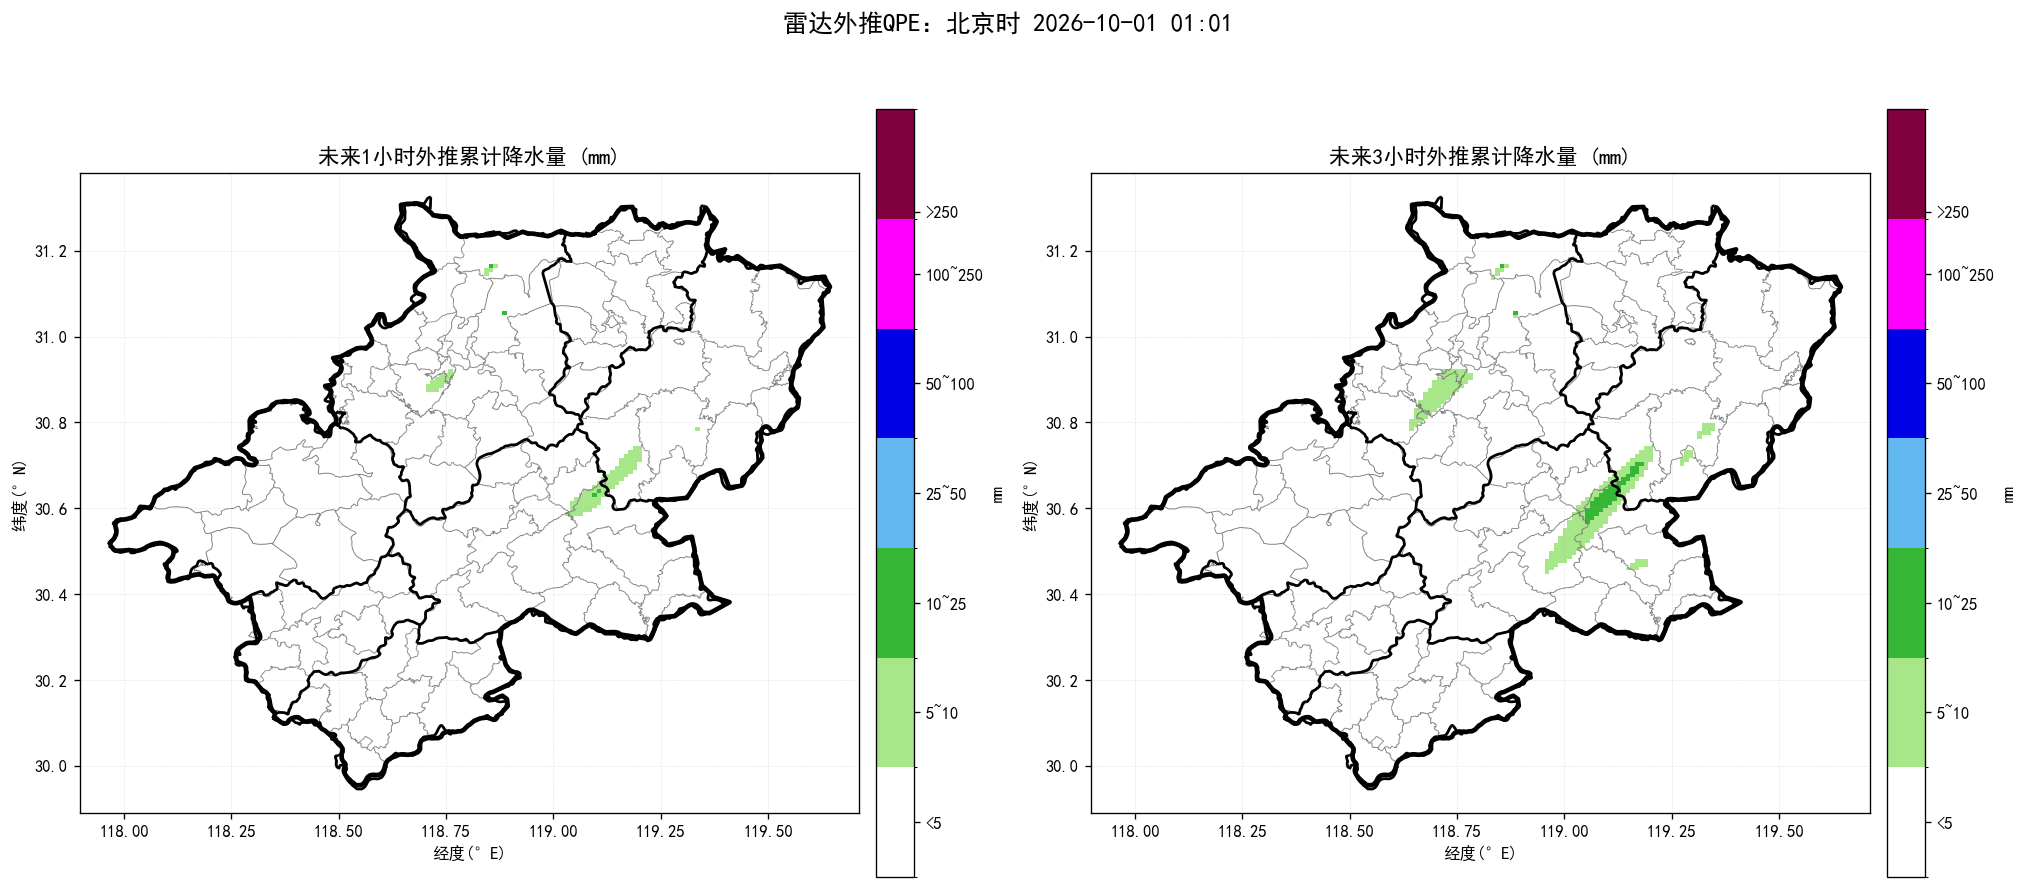
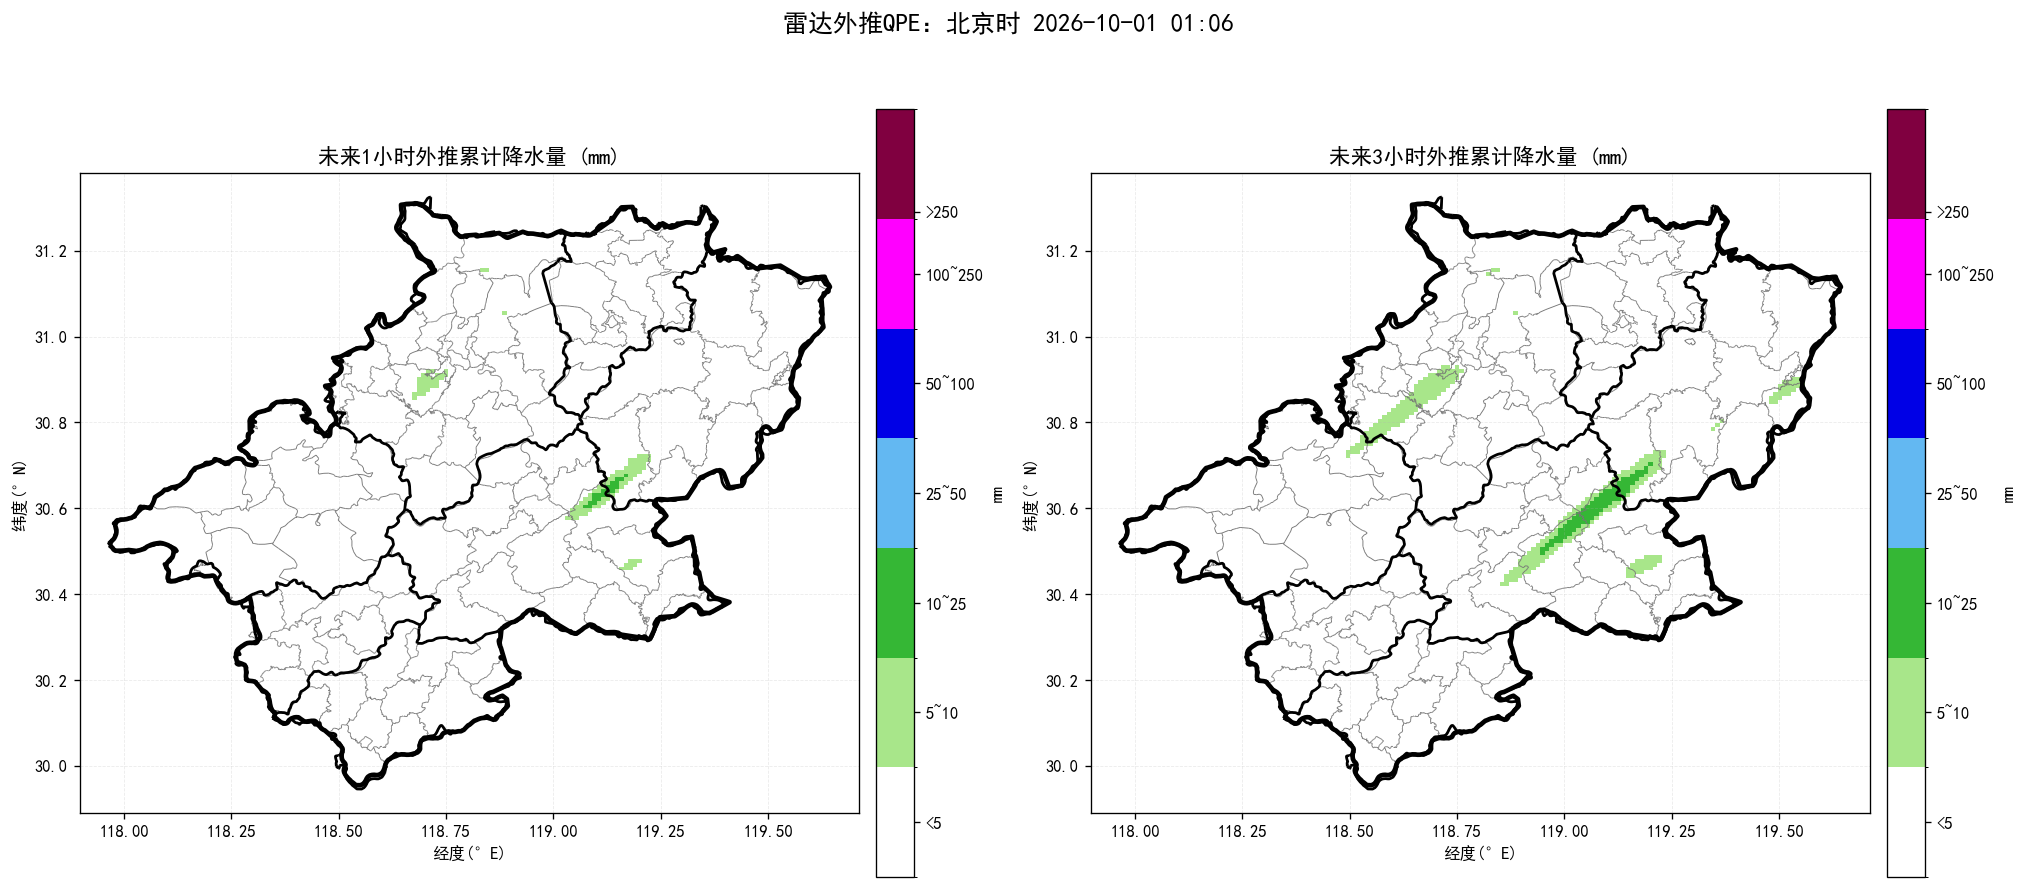
update nowcast products

diff --git a/index.html b/index.html
@@ -14,14 +14,14 @@ img.product{display:block;width:100%;height:auto;margin:10px auto 26px;border:1p
 .footer{font-size:13px;color:#777;text-align:center;margin-top:30px}
 @media(max-width:700px){.sheet{margin:0;padding:18px 15px}.alert-title{font-size:22px}.county-line{font-size:17px}.prob{font-size:18px}}
 </style></head><body><main class="sheet">
-<div class="time">起报时间：北京时 2026-10-01 01:01</div>
+<div class="time">起报时间：北京时 2026-10-01 01:06</div>
 <div class="alert-title">未来一小时降水量超过 20 毫米的乡镇：</div><div class="county-line">无</div>
 <div class="alert-title">未来三小时降水量超过 50 毫米的乡镇：</div><div class="county-line">无</div>
 <div class="alert-title">未来三小时雷暴大风（组合反射率 > 55 dBZ）的乡镇：</div><div class="county-line">无</div>
-<div class="prob">最大降水量概率预估：宣城市范围内未来三小时降水偏小，最大预报约13.6毫米，暂不进行50/80/100毫米概率预估。</div>
-<div class="section-title">未来降水预报图：</div><img class="product auto-refresh-product" data-src="短临降水预报.png" src="短临降水预报.png?v=20261001010659" alt="未来降水预报图">
-<div class="section-title">未来三小时组合反射率图：</div><img class="product auto-refresh-product" data-src="未来3小时组合反射率.png" src="未来3小时组合反射率.png?v=20261001010659" alt="未来三小时组合反射率图">
-<div class="section-title">未来三小时雷暴大风图：</div><img class="product auto-refresh-product" data-src="未来3小时雷暴大风.png" src="未来3小时雷暴大风.png?v=20261001010659" alt="未来三小时雷暴大风图">
+<div class="prob">最大降水量概率预估：宣城市范围内未来三小时降水偏小，最大预报约18.7毫米，暂不进行50/80/100毫米概率预估。</div>
+<div class="section-title">未来降水预报图：</div><img class="product auto-refresh-product" data-src="短临降水预报.png" src="短临降水预报.png?v=20261001011239" alt="未来降水预报图">
+<div class="section-title">未来三小时组合反射率图：</div><img class="product auto-refresh-product" data-src="未来3小时组合反射率.png" src="未来3小时组合反射率.png?v=20261001011239" alt="未来三小时组合反射率图">
+<div class="section-title">未来三小时雷暴大风图：</div><img class="product auto-refresh-product" data-src="未来3小时雷暴大风.png" src="未来3小时雷暴大风.png?v=20261001011239" alt="未来三小时雷暴大风图">
 <div class="footer">三张产品图每 60 秒自动刷新一次；每次请求自动附加新的URL参数以绕过缓存。</div>
 <script>
 (function() {
